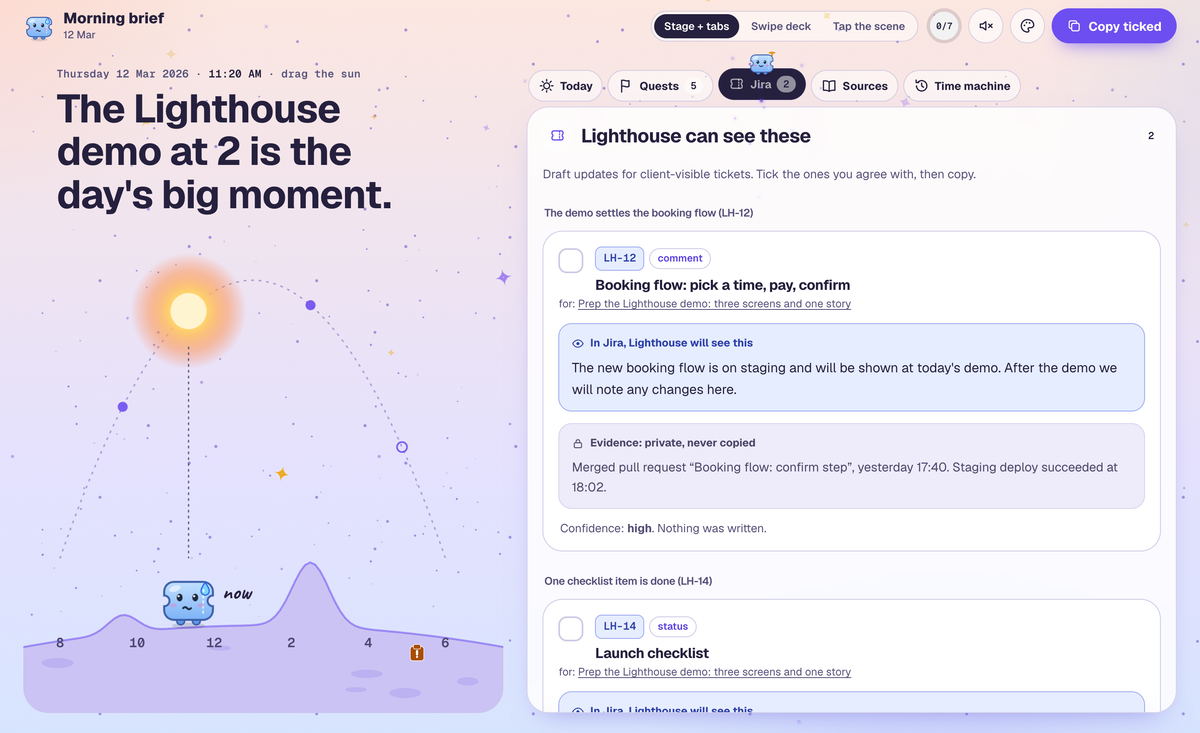
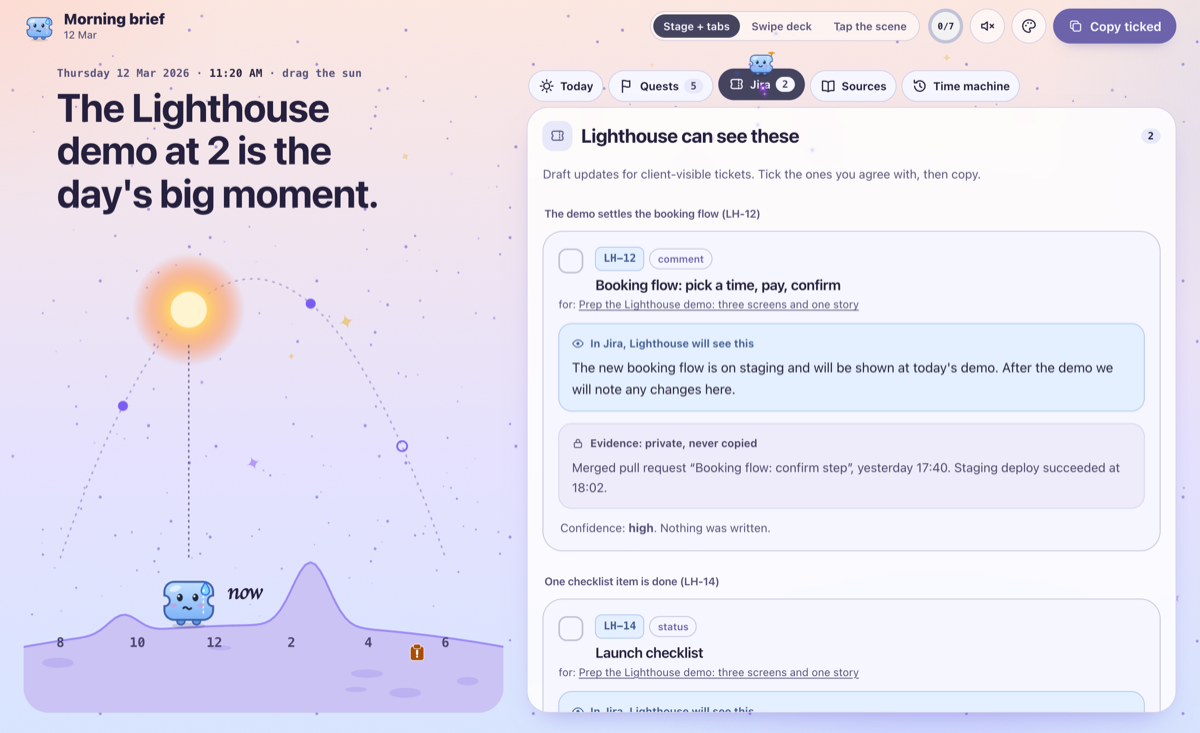
morning-fairy 1.4.0 — world-coloured panels, a gentler tilt, a sun that clears every sign (#8)
- The right-hand panel (count tiles, project cards, tabs, buttons) takes its colours from its world, light and dark,
  a step quieter than the scene.
- The card tilt fades with size and stops past 560 px.
- The sun's path rises above every meeting board; it gets smaller first, and on a phone the scene gets up to 35%
  more sky instead of shrinking the signs. The swipe deck can still touch the top sign on a very tall day.
- The "now" label avoids signposts.
- Two new tests (board colours per world; the tilt's size cap); refreshed two README screenshots.

diff --git a/plugins/morning-fairy/skills/morning-fairy/digest/build_digest.py b/plugins/morning-fairy/skills/morning-fairy/digest/build_digest.py
@@ -2402,9 +2402,6 @@ CSS_WORLDS = r"""
 :root[data-world="candy"] .nav{border:3px solid var(--rim)}
 :root[data-world="candy"] .look-panel{border:4px solid var(--rim);border-radius:26px}
 :root[data-world="candy"] .tick-face{border-radius:50%;border-color:var(--candy)}
-/* a slight alternating tilt: the individual `rotate` property, which GSAP's transform never touches */
-:root[data-world="candy"] .stack>.slot:nth-child(odd) .card,:root[data-world="candy"] .items>.item:nth-child(odd),:root[data-world="candy"] .rows>.row:nth-child(odd){rotate:-.5deg}
-:root[data-world="candy"] .stack>.slot:nth-child(even) .card,:root[data-world="candy"] .items>.item:nth-child(even),:root[data-world="candy"] .rows>.row:nth-child(even){rotate:.5deg}
 :root[data-world="candy"] .terrain .ridge{stroke:var(--candy);fill:color-mix(in srgb,var(--candy) 14%,transparent);stroke-dasharray:.011 .011;stroke-linecap:butt;filter:drop-shadow(0 1.6px 0 var(--rim))}
 :root[data-world="candy"] .terrain .sun-body{fill:var(--lemon);stroke:var(--candy);stroke-width:4.4;stroke-dasharray:7 4.5}
 :root[data-world="candy"] .terrain .sun-rays{stroke:var(--candy);stroke-width:3.4}
@@ -3652,9 +3649,14 @@ JS = r"""
   }, {passive: true, capture: true});
 
   // tilting cards (a mouse only): Jira cards are moved by GSAP, so each gets a wrapper between its slot and itself and the wrapper tilts; quests and list items tilt directly
+  // the tilt fades with size (on a big card it warped the text and made it hard to read): full on a small
+  // card, smaller and with a deeper perspective as it grows, and none at all past 560 px, where it would be a lean
   function tiltTo(el, e, max, persp){
-    var r = el.getBoundingClientRect(), px = (e.clientX - r.left) / (r.width || 1) - .5, py = (e.clientY - r.top) / (r.height || 1) - .5;
-    el.style.transform = 'perspective(' + persp + 'px) rotateX(' + (-py * 2 * max).toFixed(2) + 'deg) rotateY(' + (px * 2 * max).toFixed(2) + 'deg)';
+    var r = el.getBoundingClientRect(), size = Math.max(r.width, r.height);
+    if (size > 560) { el.style.transform = ''; return; }
+    var k = Math.min(1, 320 / (size || 1)), deep = Math.max(persp, size * 2.5);
+    var px = (e.clientX - r.left) / (r.width || 1) - .5, py = (e.clientY - r.top) / (r.height || 1) - .5;
+    el.style.transform = 'perspective(' + deep.toFixed(0) + 'px) rotateX(' + (-py * 2 * max * k).toFixed(2) + 'deg) rotateY(' + (px * 2 * max * k).toFixed(2) + 'deg)';
   }
   if (FINE && !reduce) {
     Array.prototype.forEach.call(document.querySelectorAll('.card'), function(card){
@@ -4207,6 +4209,57 @@ html[data-world="garden"] .app .btn-accent[data-copy-btn]{border:1.5px solid var
 """
 
 
+CSS_PANEL = r"""
+/* ===== the boards: the right-hand side (tabs, panels, the Copy button and its ring) takes its colours from its world, a step
+   quieter than the stage. Tinted surfaces, one restrained accent for the primary button, each count's colour as its number
+   and its dot, drawn from the world's palette (OKLCH, text 4.5:1 or more on its surface). The --p-* tokens are the boards'
+   own: the stage never reads them, so the scene keeps every colour it had. The caterpillar's are in CSS_CATERPILLAR. ===== */
+html[data-world="garden"]{--p-tile:#fbf6ec;--p-chip:#f1e9d8;--p-line:#cdc3af;--p-icon:#895a45;--p-accent:#a55a37;--p-on-accent:#fffaf0;--p-strong:#364f3b;--p-on-strong:#fffaf0;--p-jira:#965334;--p-slack:#715998;--p-mail:#954f6c;--p-other:#875d13;--p-done:#39703c;--p-client:#e1f5e4;--p-client-line:#a9d0b0;--p-client-ink:#346c42;--p-internal:#fbecd9;--p-internal-line:#dbbf99;--p-internal-ink:#7b5518;--p-box:#dcf2ff;--p-box-line:#9fcbe6;--p-box-ink:#1c6589}
+html[data-world="garden"][data-mode="dark"]{--p-tile:#223833;--p-chip:#2b4640;--p-line:#48645e;--p-icon:#e5b099;--p-accent:#efac8d;--p-on-accent:#1b2d2a;--p-strong:#c8decc;--p-on-strong:#1b2d2a;--p-jira:#edad90;--p-slack:#c6b2ed;--p-mail:#eaa7c0;--p-other:#deb67f;--p-done:#9ccd9c;--p-client:#243928;--p-client-line:#456f4e;--p-client-ink:#b6ddbd;--p-internal:#3f301b;--p-internal-line:#7b5d33;--p-internal-ink:#e9cca6;--p-box:#1d3644;--p-box-line:#386a86;--p-box-ink:#abd8f3}
+html[data-world="cosmic"]{--p-tile:#f5f6ff;--p-chip:#e7e8fa;--p-line:#c1c2d7;--p-icon:#64608c;--p-accent:#6c63ab;--p-on-accent:#f7f5ff;--p-strong:#45445f;--p-on-strong:#f7f5ff;--p-jira:#655d9d;--p-slack:#895284;--p-mail:#33689b;--p-other:#935629;--p-done:#007263;--p-client:#e5efff;--p-client-line:#b1c4ec;--p-client-ink:#445c90;--p-internal:#ffeadc;--p-internal-line:#e4bba0;--p-internal-ink:#844f27;--p-box:#e4efff;--p-box-line:#afc5ec;--p-box-ink:#415d90}
+html[data-world="cosmic"][data-mode="dark"]{--p-tile:#242439;--p-chip:#303049;--p-line:#4d4d63;--p-icon:#bbb7e9;--p-accent:#bab5f5;--p-on-accent:#17143a;--p-strong:#d4d5ee;--p-on-strong:#17143a;--p-jira:#bab6f2;--p-slack:#deaad8;--p-mail:#94c2f3;--p-other:#e9b089;--p-done:#7dd0c0;--p-client:#293348;--p-client-line:#50638c;--p-client-ink:#bed1f9;--p-internal:#432d1f;--p-internal-line:#82583b;--p-internal-ink:#f1c7ac;--p-box:#283347;--p-box-line:#4d638b;--p-box-ink:#bcd2f9}
+html[data-world="candy"]{--p-tile:#fef3fa;--p-chip:#f5e4ef;--p-line:#d2bdca;--p-icon:#885669;--p-accent:#ad5078;--p-on-accent:#ffffff;--p-strong:#563f53;--p-on-strong:#ffffff;--p-jira:#934d6a;--p-slack:#6b5999;--p-mail:#136b94;--p-other:#8a5a18;--p-done:#007255;--p-client:#efebff;--p-client-line:#c6bde8;--p-client-ink:#61538b;--p-internal:#fbecd9;--p-internal-line:#dbbf99;--p-internal-ink:#7b5518;--p-box:#ddf2ff;--p-box-line:#a1cae8;--p-box-ink:#24648b}
+html[data-world="candy"][data-mode="dark"]{--p-tile:#41304b;--p-chip:#4f3c5a;--p-line:#6a5e72;--p-icon:#e3acc0;--p-accent:#f3a2c1;--p-on-accent:#341a48;--p-strong:#e5d0e3;--p-on-strong:#341a48;--p-jira:#eaa7c0;--p-slack:#c1b3ef;--p-mail:#86c7ed;--p-other:#e1b581;--p-done:#85d0b3;--p-client:#342f45;--p-client-line:#665b87;--p-client-ink:#d3caf5;--p-internal:#3f301b;--p-internal-line:#7b5d33;--p-internal-ink:#e9cca6;--p-box:#1f3645;--p-box-line:#3b6987;--p-box-ink:#aed7f5}
+/* the old page's colour roles, pointed at the board tokens inside the boards and the tab strip */
+.app .panels,.app .switch{--accent:var(--p-accent);--accent-ink:var(--p-on-accent);--ok:var(--p-done);--warn:var(--p-other);--violet:var(--p-slack);--pink:var(--p-mail);
+  --client:var(--p-box);--client-line:var(--p-box-line);--client-ink:var(--p-box-ink);
+  --internal:var(--p-internal);--internal-line:var(--p-internal-line);--internal-ink:var(--p-internal-ink);
+  --card:var(--p-tile);--card-solid:var(--p-tile);--line-strong:var(--p-line);--glow:var(--p-accent);--candy:var(--p-accent);--stamp:var(--p-accent)}
+.app .panels :focus-visible,.app .switch :focus-visible,.app .bar :focus-visible{outline-color:var(--p-accent)}
+/* count tiles: one flat tinted surface each, the category only in the number (no colour wash) */
+.app .panels .slice{background:var(--p-tile);box-shadow:none}
+.app .panels .slice.s-clear{background:transparent}
+.app .panels .s-new .slice-big{color:var(--p-jira)}
+.app .panels .mix-jira{--c:var(--p-jira)}
+/* the Jira text stays in the page's "blue box" (the brief's own words call it that), in each world's own blue; a project's
+   Client chip is only a label, so it takes the world's own colour */
+.app .panels .proj-client .proj-kind{background:var(--p-client);color:var(--p-client-ink);border-color:var(--p-client-line)}
+.app .panels .phi{background:var(--p-chip);color:var(--p-icon)}
+.app .panels .n{background:var(--p-chip)}
+.app .panels .cta-block{background:var(--p-chip);border-color:var(--p-line)}
+/* the candy Accept pill is filled with the accent, so its text takes the accent's own ink (white on the light page, deep on the dark) */
+html[data-world="candy"] .app .panels .quest .tick .pill{color:var(--p-on-accent)}
+/* tabs: tinted, the open one in the world's deep tone rather than its accent */
+.app .switch .tab{background:var(--p-tile)}
+html[data-world="candy"] .app .switch .tab{box-shadow:0 6px 14px -10px var(--p-accent)}
+.app .switch .tab[aria-selected="true"]{background:var(--p-strong);color:var(--p-on-strong)}
+/* a tab's count badge: the deep tone on a chip, and turned over on the open tab so it never matches the tab's own fill */
+.app .switch .tab .n{background:var(--p-chip);color:var(--p-strong)}
+.app .switch .tab[aria-selected="true"] .n{background:var(--p-on-strong);color:var(--p-strong)}
+html[data-world] .app[data-layout="deck"] .switch .tab[aria-selected="true"]{background:var(--p-strong)!important;color:var(--p-on-strong)}
+/* the top bar's Copy button, its progress ring and the layout switch */
+.app .bar .btn-accent[data-copy-btn],.app .panels .btn-accent[data-copy-btn]{background:var(--p-accent);color:var(--p-on-accent);box-shadow:0 8px 18px -14px var(--p-accent)}
+.app .bar .ring{background:conic-gradient(var(--p-accent) calc(var(--p)*1turn),var(--p-line) 0)}  /* the track in the line tone: the bar itself is chip-coloured */
+.app .bar .seg button[aria-pressed="true"]{background:var(--p-strong);color:var(--p-on-strong)}
+@media (max-width:820px){
+  /* the phone's bottom bar has no tab fills: the open tab keeps the ink, its icon takes the accent */
+  .app[data-layout="stage"] .switch .tab[aria-selected="true"]{color:var(--w-ink)}
+  .app[data-layout="stage"] .switch .tab[aria-selected="true"] .ic{color:var(--p-accent)}
+  .app[data-layout="stage"] .switch .tab .n{background:var(--p-accent);color:var(--p-on-accent)}
+}
+"""
+
+
 JS_STAGE = r"""
 (function(){
   var D = JSON.parse(document.getElementById('stage-data').textContent);
@@ -4266,17 +4319,28 @@ JS_STAGE = r"""
     G.hl = {x0: hl.left - r.left - 12, y0: hl.top - r.top - 8, x1: hl.right - r.left + 12, y1: hl.bottom - r.top + 10};
     G.x0 = side ? Math.min(W * .62, Math.max(hl.right - r.left + 40, W * .44)) : pad; G.x1 = W - pad - (phone ? 6 : 26);
     G.top = side ? 40 : (hl.bottom - r.top) + (phone ? 34 : 40);
-    if (sc) G.ground = phone ? Math.max(G.top + 130, H * .5) : H * .56;
+    if (sc) G.ground = (phone ? Math.max(G.top + 130, H * .5) : H * .56) + (G.extra || 0);  // G.extra: more sky for the sun (drawScene)
     else if (stg && !phone) G.ground = H * .86;
     else G.ground = H - (phone ? 46 : 64);
     if (G.ground - G.top < 90) G.top = G.ground - 90;
     // how high the ground may rise on the heaviest day: a share of the scene's own height, never past what the sun, the mascot under it and the night moon need
     var sc0 = SHAPE_SCALE[D.shape] || SHAPE_SCALE.NORMAL;
     G.amp = sc0 / 92 * Math.min(64 * G.k, .36 * (G.ground - G.top));
-    G.liftCap = Math.max(0, Math.min(.62 * (G.ground - G.top), G.ground - G.top - 54 * G.k - 10));
+    // (in a world with signposts, also the board that has to stand clear above the figure on the hill: see boardTop)
+    G.liftCap = Math.max(0, Math.min(.62 * (G.ground - G.top), G.ground - G.top - (BOARD[world()] ? BOARD[world()] + 30 : 54) * G.k - 10));
   }
   function X(t){ return G.x0 + (G.x1 - G.x0) * t / 600; }
   function arcY(t){ var p = t / 600, lo = G.ground - 52 * G.k, hi = G.top + 26 * G.k; return lo - (lo - hi) * 4 * p * (1 - p); }
+  // The sun (or the moon after 6 PM) passes OVER every meeting's board and post, never through them. SUNR is its reach in units
+  // (the rays end at 45, plus their stroke); where a board stands under the sun's columns the sun's centre rises to clear the
+  // board's top by SUNGAP px, and a 1.5 slope either side makes the climb smooth while the sun is dragged. It never rises past
+  // the headline (or the scene's top); signCeil keeps every board low enough that this room exists. G.SG is the boards' plan.
+  var SUNR = 47, SUNGAP = 6;
+  function sunY(x, y0){
+    var r = SUNR * G.k * G.ss + SUNGAP, y = y0;
+    (G.SG || []).forEach(function(s){ var d = Math.max(0, Math.abs(x - s.x) - 24 * G.sk - r); y = Math.min(y, s.top - r + 1.5 * d); });
+    return y < y0 ? Math.max(y, Math.min(y0, (x + r > G.hl.x0 && x - r < G.hl.x1 ? G.hl.y1 : 0) + r)) : y0;  // a world without boards keeps its arc exactly
+  }
   function smin(a, b, s){ return -s * Math.log(Math.exp(-a / s) + Math.exp(-b / s)); }
   // how far the ground is lifted at x (px): the day's load, softly capped so the sun on its arc, with the mascot standing under it, always clears the ground
   function lift(x){
@@ -4287,6 +4351,65 @@ JS_STAGE = r"""
   }
   function sky(y0, y1){ for (var n = 0; n < 12; n++){ var x = rnd(6, G.W - 6), y = rnd(y0, y1); if (!(x > G.hl.x0 && x < G.hl.x1 && y > G.hl.y0 && y < G.hl.y1)) return [x, y]; } return [-50, -50]; }
   function path(fn, x0, x1, step){ var d = '', x; for (x = x0; x <= x1 + .1; x += step) d += (d ? 'L' : 'M') + x.toFixed(1) + ' ' + fn(x).toFixed(1); return d; }
+  // A meeting's board stands clear of what stands at "now" under it. BOARD[w] is how high that figure reaches above the ground
+  // in a world with signposts (the mascot; a Clawd sticker is the tallest, 56 units, plus its bob), and boardTop lifts a board's
+  // bottom over it wherever the figure's box would overlap the board's columns. Without it a tall hill beside a sign carried
+  // the mascot up over the board, and the board went under the mascot.
+  var BOARD = {garden: 60};
+  function boardTop(x, y, gr){ var k = G.k, s = G.sk, w = BOARD[world()] || 60, foot = y; for (var m = x - (32 + 24 * s / k) * k; m <= x + (32 + 24 * s / k) * k; m += 4) foot = Math.min(foot, gr(m) - (w + 4) * k); return Math.min(y - 58 * s, foot - 26 * s - 2); }
+  // Where each meeting's signpost stands: a board (44 x 24) on a post at the meeting's middle, its bottom clear of the mascot
+  // (boardTop) unless fitSigns found no room for it (G.low); a crowded stretch takes the next height up until neither board nor post meets one already standing.
+  function signPlan(gr){
+    var placed = [], out = [], k = G.sk;  // a board's own size (always G.k: only the sun ever shrinks, fitSigns)
+    EV.forEach(function(e, i){
+      var x = X((e.a + e.b) / 2), y = gr(x) - 3, lv = 0, t0 = G.low[i] ? y - 58 * k : boardTop(x, y, gr);
+      var shape = function(l){ var t = t0 - l * 27 * k; return [[x - 24 * k, t - 2, x + 24 * k, t + 26 * k], [x - 2, t, x + 2, y]]; };
+      var hit = function(A, B){ return A[0] < B[2] && B[0] < A[2] && A[1] < B[3] && B[1] < A[3]; };
+      var clash = function(l, boards){ return placed.some(function(P){ return (boards ? shape(l).slice(0, 1) : shape(l)).some(function(a){ return (boards ? P.slice(0, 1) : P).some(function(b){ return hit(a, b); }); }); }); };
+      while (lv < 3 && clash(lv)) lv++;
+      // two meetings closer than a board's width: one post has to pass another board, so only the boards must be kept apart
+      if (clash(lv)) for (lv = 0; lv < 6 && clash(lv, true); lv++);
+      var meets = clash(lv, true); placed.push(shape(lv)); out.push({e: e, i: i, x: x, y: y, top: t0 - lv * 27 * k - 2, clash: meets, up: Math.round(((y - t0) / k - 58 + lv * 27) * 10) / 10});
+    });
+    return out;
+  }
+  function signs(gr){
+    return signPlan(gr).map(function(p){ var e = p.e, up = p.up;
+      return '<g class="g-sign' + (e.opt ? ' opt' : '') + '" transform="translate(' + p.x.toFixed(1) + ' ' + p.y.toFixed(1) + ') scale(' + G.sk.toFixed(2) + ')"><path d="M0 0V' + (-40 - up) + '"/><rect x="-22" y="' + (-58 - up) + '" width="44" height="24" rx="4"/><text x="0" y="' + (-40 - up) + '">' + e.label + '</text><title>' + e.title + '</title></g>';
+    }).join('');
+  }
+  // the highest a board may reach: one whole sun (sunY) below the headline wherever the sun passing over this board would reach
+  // under the headline (its centre comes within 24sk + r of the board, its box r further), else one whole sun below the
+  // scene's top, so the sun always has room to pass above it
+  // (G.sunRoom 0: no sky for even the smallest sun, so only the board itself must stay under the headline, as on a roomy scene)
+  function signCeil(x){
+    if (!G.sunRoom) return x + 24 * G.sk > G.hl.x0 && x - 24 * G.sk < G.hl.x1 ? G.hl.y1 + 4 : 4;
+    var r = SUNR * G.k * G.ss + SUNGAP, h = 24 * G.sk + 2 * r; return (x + h > G.hl.x0 && x - h < G.hl.x1 ? G.hl.y1 : 0) + 2 * r;
+  }
+  // boards lifted over the mascot need sky above them for the sun. The SUN gets smaller first (to .55 of its size;
+  // shrink only the sun, never the boards, posts or mascot); fitSigns(false) then reports how many px of sky are still short,
+  // and drawScene gives the scene that much more sky where it can. On the last try (fitSigns(true)) the hill is lowered
+  // for the sun; and where even that leaves no room for the smallest sun (a swipe deck), the boards are fitted under the headline
+  // and clear of the mascot (the hill stays lowered, the boards are drawn a little smaller only if they still do
+  // not fit, then G.low), and the sun passes as high as the headline lets it, where it may touch the top board.
+  function fitSigns(last){
+    var w = world(), cap = G.liftCap, plan = function(){ return signPlan(GROUND[w]); }, bad = function(p){ return signCeil(p.x) > p.top || p.clash; },
+        over = function(){ var o = 0; plan().forEach(function(p){ o = Math.max(o, signCeil(p.x) - p.top, p.clash ? 27 * G.sk : 0); }); return o; };
+    G.sk = G.k; G.ss = 1; G.sunRoom = 1; G.low = {};
+    if (!BOARD[w] || !EV.length) return 0;
+    for (var f = 1; f >= .549; f -= .05) { G.ss = Math.max(.55, f); if (over() <= 0) return 0; }
+    if (!last) return over();
+    for (var i = 0; i < 8 && G.liftCap > 0; i++) { var o = over(); if (o <= 0) return 0; G.liftCap = Math.max(0, G.liftCap - o - 1); }
+    if (over() <= 0) return 0;
+    G.sunRoom = 0;  // the hill stays as low as the sun needed it, which leaves the sun the most room
+    if (over() <= 0) return 1;
+    for (var b = 1; b >= .75; b -= .05) { G.sk = G.k * b; if (over() <= 0) return 1; }
+    G.sk = G.k; G.liftCap = cap;
+    for (var n = 0; n < EV.length; n++) { var ps = plan().filter(bad); if (!ps.length) return 1; ps.sort(function(x, y){ return x.top - y.top; }); G.low[ps[0].i] = 1; }
+    for (var j = 0; j < 8 && G.liftCap > 0; j++) { var q = over(); if (q <= 0) return 1; G.liftCap = Math.max(0, G.liftCap - q - 1); }
+    for (var g = 1; g >= .75 && over() > 0; g -= .05) G.sk = G.k * g;
+    return 1;
+  }
   // GBASE is the resting ground (the gentle wobble); GROUND is that minus the day's load, and is what everything stands on
   var GBASE = {
     garden: function(x){ return G.ground + 7 * Math.sin(x / G.W * Math.PI * 1.7 + .5) - 4; },
@@ -4442,17 +4565,6 @@ JS_STAGE = r"""
       var hatch = ''; for (var k = 0; k < (G.phone ? 10 : 22); k++){ var hx = rnd(10, W - 10), hy = gr(hx) + rnd(16, Math.max(18, H - gr(hx) - 30)); hatch += 'M' + hx.toFixed(0) + ' ' + hy.toFixed(0) + 'l-6 7'; }
       o += '<path class="g-hatch" d="' + hatch + '"/>';
       o += '<path class="g-trail" d="' + path(function(x){ return gr(x) - 3; }, X(0) - 20, X(600), 8) + '"/>';
-      // signs on a crowded stretch take a taller post, so two meetings an hour apart never wear one board
-      var placed = [];
-      EV.forEach(function(e){
-        var x = X((e.a + e.b) / 2), y = gr(x) - 3, lv = 0, k = G.k;
-        // a sign is a board (44 x 24) on a post; try each height until neither its board nor its post meets one already standing
-        var shape = function(l){ var t = y - (58 + l * 27) * k; return [[x - 24 * k, t - 2, x + 24 * k, t + 26 * k], [x - 2, t, x + 2, y]]; };
-        var hit = function(A, B){ return A[0] < B[2] && B[0] < A[2] && A[1] < B[3] && B[1] < A[3]; };
-        while (lv < 3 && placed.some(function(P){ return shape(lv).some(function(a){ return P.some(function(b){ return hit(a, b); }); }); })) lv++;
-        placed.push(shape(lv)); var up = lv * 27;
-        o += '<g class="g-sign' + (e.opt ? ' opt' : '') + '" transform="translate(' + x.toFixed(1) + ' ' + y.toFixed(1) + ') scale(' + G.k.toFixed(2) + ')"><path d="M0 0V' + (-40 - up) + '"/><rect x="-22" y="' + (-58 - up) + '" width="44" height="24" rx="4"/><text x="0" y="' + (-40 - up) + '">' + e.label + '</text><title>' + e.title + '</title></g>';
-      });
       var hx2 = X(600) + (G.phone ? 0 : 6), hy2 = gr(hx2) - 2;
       if (dark()) o += '<defs><radialGradient id="lamp"><stop offset="0" stop-color="#ffd36b" stop-opacity=".42"/><stop offset="1" stop-color="#ffd36b" stop-opacity="0"/></radialGradient></defs><circle cx="' + hx2.toFixed(0) + '" cy="' + (hy2 - 24 * G.k).toFixed(0) + '" r="' + (120 * G.k).toFixed(0) + '" fill="url(#lamp)"/>';
       o += '<g class="g-house" transform="translate(' + hx2.toFixed(1) + ' ' + hy2.toFixed(1) + ') scale(' + G.k.toFixed(2) + ')"><path d="M-20 0V-28L0-46 20-28V0Z"/><path d="M-24-25L0-49 24-25" fill="none"/><path d="M8-40V-50H14V-34" /><rect class="win" x="-8" y="-24" width="11" height="11" rx="2"/><path class="smoke" d="M11-54q-5-6 0-12"/></g>';
@@ -4461,6 +4573,8 @@ JS_STAGE = r"""
       for (var f = 0; f < 14; f++) o += '<circle class="ff" cx="' + rnd(20, W - 20).toFixed(0) + '" cy="' + (f % 2 ? rnd(G.top, G.ground) : rnd(G.ground - 20, H - 20)).toFixed(0) + '" r="2.4" style="animation-delay:' + (-f * .7) + 's"/>';
       o += '<g id="flowers"></g>';
       o += '<g class="sun g-sun" id="sun"><g class="rays"><path d="M0-36v-9M0 36v9M-36 0h-9M36 0h9M-25-25l-6-6M25 25l6 6M-25 25l-6 6M25-25l6-6"/></g><circle class="c" r="24"/><path class="face" d="M-9-3v3M9-3v3M-7 8q7 6 14 0"/><circle cx="-14" cy="5" r="3" fill="#f39aa8" stroke="none" opacity=".7"/><circle cx="14" cy="5" r="3" fill="#f39aa8" stroke="none" opacity=".7"/></g>';
+      // the signposts (signPlan) come after the sun; the sun's path already clears them (sunY), this order is only a backstop
+      o += signs(gr);
       return o + WHO;
     },
     candy: function(){
@@ -4505,7 +4619,16 @@ JS_STAGE = r"""
 
   function moodRef(){ var m = st.night ? 'sleepy' : st.done ? 'starry' : D.mood; return m === 'calm' ? '#mascot' : '#mascot-' + m; }
   function drawScene(){
-    geo(); seed = 7;
+    // more sky for the sun: where the scene can have it, it gets just enough for a sun of at least .55 to clear every
+    // board and post, at most 35% of its height. A phone's stage row grows (the panel row below gives up that height); the scene
+    // layout's box already fills the screen, so its ground sits lower in it; a swipe deck's box and a desktop stage are fixed.
+    var main = stage.parentElement, row = function(){ main.style.gridTemplateRows = G.extra && st.layout === 'stage' && G.phone ? 'minmax(250px, calc(40% + ' + G.extra.toFixed(0) + 'px)) 1fr auto' : ''; };
+    G.extra = 0; row(); geo();
+    var short = fitSigns(false), room = st.layout === 'stage' && G.phone ? .35 * G.H : sceneLayout() ? Math.max(0, Math.min(.35 * G.H, G.H - G.ground - 90 * G.k)) : 0;
+    for (var gn = 0; short > 0 && room > 0 && gn < 8; gn++) { if (G.extra >= room) break; G.extra = Math.min(room, G.extra + short + 2); row(); geo(); short = fitSigns(false); }
+    if (short > 0) fitSigns(true);  // still short at the cap: keep the extra sky, and lower the hill for the rest (fitSigns)
+    seed = 7;
+    G.SG = BOARD[world()] && EV.length ? signPlan(GROUND[world()]) : [];  // where the boards stand, so the sun's path clears them (sunY)
     sceneEl.setAttribute('viewBox', '0 0 ' + G.W.toFixed(0) + ' ' + G.H.toFixed(0)); sceneEl.style.setProperty('--k', G.k.toFixed(2));
     sceneEl.innerHTML = SCENE[world()]();
     root.style.setProperty('--m-stroke', world() === 'cosmic' ? '#3b5fa8' : (dark() ? '#0f1730' : '#2d2a32'));
@@ -4515,26 +4638,44 @@ JS_STAGE = r"""
   function moveNow(t){
     st.t = t;
     // after 6 PM the sun becomes a moon high in the sky and the mascot waits by the house
-    var night = live && after && st.real, w = world(), x = night ? X(w === 'garden' ? 440 : 596) : X(t), gy = GROUND[w](x), sy = night ? G.top + 30 * G.k : arcY(t),
-        sun = $('#sun', sceneEl), sx = night ? X(470) : x;
+    var night = live && after && st.real, w = world(), x = night ? X(w === 'garden' ? 440 : 596) : X(t), gy = GROUND[w](x),
+        sun = $('#sun', sceneEl), sx = night ? X(470) : x, sy = sunY(sx, night ? G.top + 30 * G.k : arcY(t));
     st.night = night;
-    if (sun) { sun.classList.toggle('night', night); sun.setAttribute('transform', 'translate(' + sx.toFixed(1) + ' ' + sy.toFixed(1) + ') scale(' + G.k.toFixed(2) + ')'); }
+    if (sun) { sun.classList.toggle('night', night); sun.setAttribute('transform', 'translate(' + sx.toFixed(1) + ' ' + sy.toFixed(1) + ') scale(' + (G.k * G.ss).toFixed(2) + ')'); }
     var stick = $('#stick', sceneEl); if (stick) stick.setAttribute('y2', ((gy - 12 - sy) / G.k).toFixed(1));
     $('#whoAt', sceneEl).setAttribute('transform', 'translate(' + x.toFixed(1) + ' ' + gy.toFixed(1) + ') scale(' + G.k.toFixed(2) + ')');
     var nl = $('#nowl', sceneEl);
     if (w === 'candy' || night) { nl.setAttribute('x1', 0); nl.setAttribute('x2', 0); nl.setAttribute('y1', 0); nl.setAttribute('y2', 0); }
-    else if (gy - 58 * G.k - (sy + 30 * G.k) < 6) { nl.setAttribute('x1', 0); nl.setAttribute('x2', 0); nl.setAttribute('y1', 0); nl.setAttribute('y2', 0); }
-    else { nl.setAttribute('x1', x.toFixed(1)); nl.setAttribute('x2', x.toFixed(1)); nl.setAttribute('y1', (sy + 30 * G.k).toFixed(1)); nl.setAttribute('y2', (gy - 58 * G.k).toFixed(1)); }
+    else if (gy - 58 * G.k - (sy + 30 * G.k * G.ss) < 6) { nl.setAttribute('x1', 0); nl.setAttribute('x2', 0); nl.setAttribute('y1', 0); nl.setAttribute('y2', 0); }
+    else { nl.setAttribute('x1', x.toFixed(1)); nl.setAttribute('x2', x.toFixed(1)); nl.setAttribute('y1', (sy + 30 * G.k * G.ss).toFixed(1)); nl.setAttribute('y2', (gy - 58 * G.k).toFixed(1)); }
     // the "now" label goes on whichever side the ground is lower, so it never sits on a hump
     var nt = $('#nowt', sceneEl), clearAt = function(xx){ return GROUND[w](xx) > gy - 12 * G.k; },
         left = x > G.W - 100 * G.k || (!night && !clearAt(x + 52 * G.k) && clearAt(x - 52 * G.k));
     if (left) { nt.setAttribute('x', -28); nt.setAttribute('text-anchor', 'end'); } else { nt.setAttribute('x', 28); nt.removeAttribute('text-anchor'); }
     $('#whoUse', sceneEl).setAttribute('href', moodRef());
     nt.textContent = !live ? '' : st.real ? (after ? 'home time' : before ? 'not yet' : 'now') : 'then';
+    placeNow(nt, x, gy);
     var ck = document.getElementById('clock'), wrap = document.getElementById('clockwrap');
     if (wrap) wrap.hidden = !live;
     if (ck) ck.textContent = st.real ? (after ? 'After 6 PM' : clockText(st.t)) : clockText(st.t);
-    var ss = $('.sunspot'); if (ss) { var lft = sx > G.W - 180; ss.classList.toggle('l', lft); ss.style.left = (sx + (lft ? -1 : 1) * 46 * G.k) + 'px'; ss.style.top = sy + 'px'; }
+    var ss = $('.sunspot'); if (ss) { var lft = sx > G.W - 180; ss.classList.toggle('l', lft); ss.style.left = (sx + (lft ? -1 : 1) * 46 * G.k * G.ss) + 'px'; ss.style.top = sy + 'px'; }
+  }
+  // the "now" label keeps the place given above when that place is inside the scene and clear of the headline, the mascot and
+  // every meeting's board, post, gumdrop or moon; else it takes the first such place of a few around the mascot, else the one it overlaps least. Measured,
+  // not assumed, so a big sticker, a tall hill or a board lifted over the mascot all count as drawn.
+  function placeNow(nt, x, gy){
+    if (!nt.textContent || nt.style.opacity === '0') return;
+    // (a post is a vertical line, so its box has no width: it is given its line's width, 1.5 px either side, or it would never count)
+    var sr = sceneEl.getBoundingClientRect(), box = function(e){ var q = e.getBoundingClientRect(), d = q.width < 3 ? 1.5 : 0; return [q.left - sr.left - d, q.top - sr.top, q.right - sr.left + d, q.bottom - sr.top]; };
+    var hop = $('#hop', sceneEl), walls = [].map.call(sceneEl.querySelectorAll('.g-sign rect, .g-sign path, .c-gum, .k-moon'), box).concat([[G.hl.x0, G.hl.y0, G.hl.x1, G.hl.y1]]); if (hop) walls.push(box(hop));
+    walls.push([x - 30 * G.k, gy - 59 * G.k, x + 30 * G.k, gy + 3 * G.k]);  // and the frame a Clawd sticker fills once it loads (CLAWD_BOX)
+    var ov = function(a, b){ return Math.max(0, Math.min(a[2], b[2]) - Math.max(a[0], b[0])) * Math.max(0, Math.min(a[3], b[3]) - Math.max(a[1], b[1])); };
+    var put = function(p){ nt.setAttribute('x', p[0]); nt.setAttribute('y', p[1]); if (p[2]) nt.setAttribute('text-anchor', p[2]); else nt.removeAttribute('text-anchor'); };
+    var cost = function(){ var b = box(nt), out = Math.max(0, 2 - b[0]) + Math.max(0, b[2] - G.W + 2) + Math.max(0, 2 - b[1]) + Math.max(0, b[3] - G.H + 2);
+      return 1e4 * out + walls.reduce(function(s, w){ return s + ov(b, w); }, 0); };
+    var tries = [[nt.getAttribute('x'), nt.getAttribute('y'), nt.getAttribute('text-anchor')], [32, -24], [-32, -24, 'end'], [32, -66], [-32, -66, 'end'], [0, -80, 'middle'], [56, -40], [-56, -40, 'end'], [80, -24], [-80, -24, 'end'], [32, -100], [-32, -100, 'end'], [0, -110, 'middle']], best = null;
+    for (var i = 0; i < tries.length; i++) { put(tries[i]); var c = cost(); if (c < 2) return; if (!best || c < best.c) best = {c: c, p: tries[i]}; }
+    put(best.p);
   }
   function hint(on){ var h = document.getElementById('hint'); if (h) h.textContent = !live ? '' : on ? ' · let go to snap back' : ' · drag the sun'; }
   function bindSun(){
@@ -4853,11 +4994,13 @@ CSS_CATERPILLAR = r"""
 html[data-world="caterpillar"]{--w-bg:radial-gradient(rgba(60,90,30,.09) 1px,transparent 1.6px) 0 0/8px 8px,#eef6dc;--w-ink:#24301f;--w-muted:#4a5a3b;--w-card:#fffbea;--w-line:#24301f;
   --w-accent:#a8295e;--w-on:#fffbea;--w-task:#6a4cb8;--w-hill:#8cc866;--w-hill2:#c5e7a4;--w-sun:#f6c453;--w-petal:#f29bbd;--w-violet:#9b82dc;--w-leaf:#3f7a35;--w-win:#f6c453;
   --w-chip:#e4eecb;--w-shadow:3px 4px 0 rgba(36,48,31,.16);--w-sky:transparent;
-  --w-leafc:#8cc866;--w-leafe:#2f6a2a;--w-rib:#bfe39b;--w-seg1:#7cbf52;--w-seg2:#a9db7a;--w-tip:#f2789f;--w-blush:#f39aa8;--w-silk:#efe3bf;--w-face:#1f2a1b}
+  --w-leafc:#8cc866;--w-leafe:#2f6a2a;--w-rib:#bfe39b;--w-seg1:#7cbf52;--w-seg2:#a9db7a;--w-tip:#f2789f;--w-blush:#f39aa8;--w-silk:#efe3bf;--w-face:#1f2a1b;
+  --p-tile:#f4f9ee;--p-chip:#e6eddb;--p-line:#bfc8b3;--p-icon:#4e6d47;--p-accent:#477b3b;--p-on-accent:#fffbea;--p-strong:#3b4e37;--p-on-strong:#fffbea;--p-jira:#994e5e;--p-slack:#715998;--p-mail:#136b94;--p-other:#8a5a18;--p-done:#416f37;--p-client:#e3f4e2;--p-client-line:#adcfad;--p-client-ink:#3a6b3d;--p-internal:#f9edd9;--p-internal-line:#d9c099;--p-internal-ink:#785715;--p-box:#d9f4fd;--p-box-line:#99cedf;--p-box-ink:#006981}
 html[data-world="caterpillar"][data-mode="dark"]{--w-bg:radial-gradient(rgba(220,255,200,.05) 1px,transparent 1.6px) 0 0/8px 8px,#0f2219;--w-ink:#e6f0d8;--w-muted:#adc29e;--w-card:#16301f;--w-line:#e6f0d8;
   --w-accent:#ff8fb8;--w-on:#0f2219;--w-task:#c7b5ff;--w-hill:#2f5a37;--w-hill2:#24452c;--w-sun:#f1d27a;--w-petal:#ffb3cf;--w-violet:#b9a3ff;--w-leaf:#9bd26a;--w-win:#ffd36b;
   --w-chip:#1f3d29;--w-shadow:3px 4px 0 rgba(0,0,0,.35);
-  --w-leafc:#2f5a37;--w-leafe:#8cc866;--w-rib:#4b7f4c;--w-seg1:#6fb54f;--w-seg2:#9bd26a;--w-tip:#ff8fb8;--w-blush:#f39aa8;--w-silk:#cdbf98;--w-face:#16220f}
+  --w-leafc:#2f5a37;--w-leafe:#8cc866;--w-rib:#4b7f4c;--w-seg1:#6fb54f;--w-seg2:#9bd26a;--w-tip:#ff8fb8;--w-blush:#f39aa8;--w-silk:#cdbf98;--w-face:#16220f;
+  --p-tile:#28372b;--p-chip:#334536;--p-line:#506353;--p-icon:#a6c99f;--p-accent:#9fcc95;--p-on-accent:#16301f;--p-strong:#ccdec8;--p-on-strong:#16301f;--p-jira:#eea7b3;--p-slack:#c6b2ed;--p-mail:#86c7ed;--p-other:#e1b581;--p-done:#a1cc98;--p-client:#263826;--p-client-line:#496e4a;--p-client-ink:#b9dcb9;--p-internal:#3e311a;--p-internal-line:#785f32;--p-internal-ink:#e6cda5;--p-box:#193841;--p-box-line:#2e6d7f;--p-box-ink:#a5dbec}
 /* the scene: a leaf with a midrib and veins, and the caterpillar on its edge */
 html[data-world="caterpillar"] .scene .hr{fill:var(--w-ink)}
 .cl-leaf{fill:var(--w-leafc);stroke:var(--w-leafe);stroke-width:2.4;stroke-linejoin:round}
@@ -4892,6 +5035,7 @@ html[data-world="caterpillar"] .scene .hr{fill:var(--w-ink)}
 CAT_JS_STAGE_WORLD = r"""  // the caterpillar's leaf: the garden's gentle wobble, lifted by the same load
   GBASE.caterpillar = function(x){ return G.ground + 6 * Math.sin(x / G.W * Math.PI * 1.5 + .8) - 4; };
   GROUND.caterpillar = function(x){ return GBASE.caterpillar(x) - lift(x); };
+  BOARD.caterpillar = 80;  // the rider stands on the caterpillar's back, about 20 units up, so its boards stand that much higher
 """
 
 CAT_JS_STAGE_SCENE = r"""
@@ -4908,22 +5052,13 @@ CAT_JS_STAGE_SCENE = r"""
     o += '<path class="cl-rib" d="' + path(rib, -10, W + 10, 12) + '"/>';
     for (var vx = -10 + vs * .6; vx < W + 10; vx += vs) { var ry = rib(vx); v += 'M' + vx.toFixed(1) + ' ' + ry.toFixed(1) + 'q' + (12 * k).toFixed(1) + ' ' + (-9 * k).toFixed(1) + ' ' + (30 * k).toFixed(1) + ' ' + (-20 * k).toFixed(1) + 'M' + vx.toFixed(1) + ' ' + ry.toFixed(1) + 'q' + (12 * k).toFixed(1) + ' ' + (9 * k).toFixed(1) + ' ' + (30 * k).toFixed(1) + ' ' + (22 * k).toFixed(1); }
     o += '<path class="cl-vein" d="' + v + '"/>';
-    // signposts on the leaf, as in the garden: a crowded stretch takes a taller post
-    var placed = [];
-    EV.forEach(function(e){
-      var x = X((e.a + e.b) / 2), y = gr(x) - 3, lv = 0;
-      var shape = function(l){ var t = y - (58 + l * 27) * k; return [[x - 24 * k, t - 2, x + 24 * k, t + 26 * k], [x - 2, t, x + 2, y]]; };
-      var hit = function(A, B){ return A[0] < B[2] && B[0] < A[2] && A[1] < B[3] && B[1] < A[3]; };
-      while (lv < 3 && placed.some(function(P){ return shape(lv).some(function(a){ return P.some(function(b){ return hit(a, b); }); }); })) lv++;
-      placed.push(shape(lv)); var up = lv * 27;
-      o += '<g class="g-sign' + (e.opt ? ' opt' : '') + '" transform="translate(' + x.toFixed(1) + ' ' + y.toFixed(1) + ') scale(' + k.toFixed(2) + ')"><path d="M0 0V' + (-40 - up) + '"/><rect x="-22" y="' + (-58 - up) + '" width="44" height="24" rx="4"/><text x="0" y="' + (-40 - up) + '">' + e.label + '</text><title>' + e.title + '</title></g>';
-    });
     o += hours(hy);
     o += pins(gr, 12 * k);
     for (var f = 0; f < 14; f++) o += '<circle class="ff" cx="' + rnd(20, W - 20).toFixed(0) + '" cy="' + (f % 2 ? rnd(G.top, G.ground) : rnd(G.ground - 20, H - 20)).toFixed(0) + '" r="2.4" style="animation-delay:' + (-f * .7) + 's"/>';
     o += '<g id="flowers"></g>';
     o += '<g class="sun g-sun" id="sun"><g class="rays"><path d="M0-36v-9M0 36v9M-36 0h-9M36 0h9M-25-25l-6-6M25 25l6 6M-25 25l-6 6M25-25l6-6"/></g><circle class="c" r="24"/><path class="face" d="M-9-3v3M9-3v3M-7 8q7 6 14 0"/><circle cx="-14" cy="5" r="3" fill="#f39aa8" stroke="none" opacity=".7"/><circle cx="14" cy="5" r="3" fill="#f39aa8" stroke="none" opacity=".7"/></g>';
     o += '<g class="cat" id="cat"></g>';  // drawn by catDraw, after the sun so a low morning sun never hides the head
+    o += signs(gr);  // signposts as in the garden, after the sun and the caterpillar, each board clear of the rider (signPlan)
     return o + WHO;
   };
   // the leaf's top edge, with bites taken out of it from 8 AM up to xe (the part of the day already eaten)
@@ -4977,6 +5112,8 @@ CAT_JS_STAGE_SCENE = r"""
       g.innerHTML = o;
       return {x: xh + 44 * k, y: gr(xh + 44 * k)};
     }
+    // where the body and its rider must stop on the left: the scene's edge, or a headline standing beside the timeline down to the leaf
+    var edge = G.hl.x1 < X(0) && G.hl.y1 > G.ground - 100 * k ? G.hl.x1 : 0;
     // lay the chain: a first pass counts the segments, the second tapers them over that length
     var chain = function(nPlan){
       var segs = [], prev = at(xh, R * k * SINK), pr = R * k, x = xh, xEnd = X(0);
@@ -4987,6 +5124,7 @@ CAT_JS_STAGE_SCENE = r"""
         var a = xx, b = xx + 2;
         for (var it = 0; it < 20; it++) { var m = (a + b) / 2; if (dist(at(m, r * SINK), prev) >= want) a = m; else b = m; }
         if (n >= 2 && a < xEnd) break;  // the tail ends at 8 AM (neck and one segment always, so there is a body at 8)
+        if (a - r < edge + 1) break;  // ...but never past the scene's left edge or under a headline beside it (at 8 AM the head may come alone)
         c = at(a, r * SINK); segs.push({x: a, c: c, r: r}); prev = c; pr = r; x = a;
       }
       return segs;
@@ -5005,8 +5143,11 @@ CAT_JS_STAGE_SCENE = r"""
     // all done, under reduced motion: a still butterfly beside the head (with motion, the finale sends one fluttering off)
     if (st.done && rm()) o += bfly(hc[0] + 30 * k, hc[1] - 40 * k, .7 * k);
     g.innerHTML = o;
-    // the mascot rides on its back, on the third segment (on the second while the morning's body is that short)
-    var sr = segs[Math.min(2, segs.length - 1)]; CAT.ride = true;
+    // the mascot rides on its back, on the third segment (on the second while the morning's body is that short), never so near
+    // the left edge that half of it is cut off: early on it moves up the body, and at 8 AM onto the head
+    var mx = edge + 30 * k, sr = null; CAT.ride = true;
+    for (var j = Math.min(2, segs.length - 1); j >= 0 && !sr; j--) if (segs[j].c[0] >= mx) sr = segs[j];
+    if (!sr) return {x: Math.max(mx, hc[0]), y: hc[1] - R * k + 3 * k};
     return {x: sr.c[0], y: sr.c[1] - sr.r + 3 * k};
   }
 """
@@ -6032,6 +6173,7 @@ def _build(content, log, admin_log, briefs, look):
     css += CSS_EXTRAS  # the quest pill fix has to beat the quest rules
     css += CSS_TODO    # Done pills, the to-do cards' quest and Jira chips, project groups
     css += CSS_STAGE   # last of all: the shell, the scene and the panels
+    css += CSS_PANEL   # the boards in their world's colours, after the shell rules they recolour
     ff_body, ff_fill, ff_moves, look_panel = "", "", "", LOOK_PANEL
     kind = mascot_kind(look, FAN)
     defs = mascot_defs(kind)

diff --git a/README.md b/README.md
@@ -278,6 +278,12 @@ See [NOTICE.md](NOTICE.md).
 
 ## Version history
 
+- **1.4.0** (2026-11-06): calmer and roomier. The right-hand panel (count tiles, project cards, tabs and buttons)
+  now takes its colours from its world, light and dark, a step quieter than the scene. Cards tilt less as they grow
+  and not at all past 560 px, so big cards stay easy to read. A tall meeting hill no longer pushes signs into the sun:
+  the sun rides above every board, getting smaller first, and on a phone the scene gets up to 35% more sky rather than
+  shrinking the signs. In the swipe deck, where the scene's height is fixed by the screen, the sun can still touch the
+  top sign on a very tall day. The "now" label no longer sits on a signpost.
 - **1.3.0** (2026-11-05): a fourth world, Caterpillar: the day is a big leaf, the caterpillar's body is the
   part of the day already lived with its head munching at now, it climbs over each meeting's hill, curls into a cocoon
   after 6 PM, and the all-done finale is a butterfly. The meeting hills and the admin clipboards on the scene are now

diff --git a/plugins/morning-fairy/skills/morning-fairy/SKILL.md b/plugins/morning-fairy/skills/morning-fairy/SKILL.md
@@ -1,6 +1,6 @@
 ---
 name: morning-fairy
-version: 1.3.0
+version: 1.4.0
 description: |
   Build a cute one-screen morning brief: the shape of today drawn as a little world (a draggable sun,
   hills that rise at each meeting, a ticket mascot at "now"), what needs you from email, chat,
